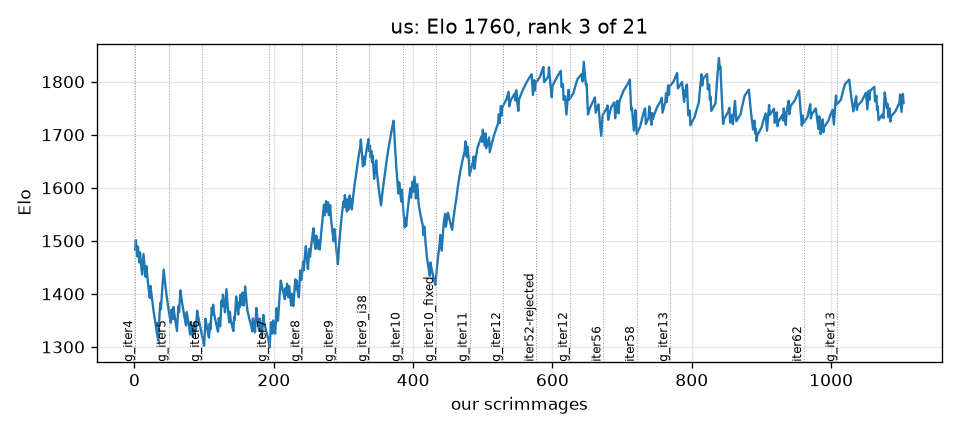
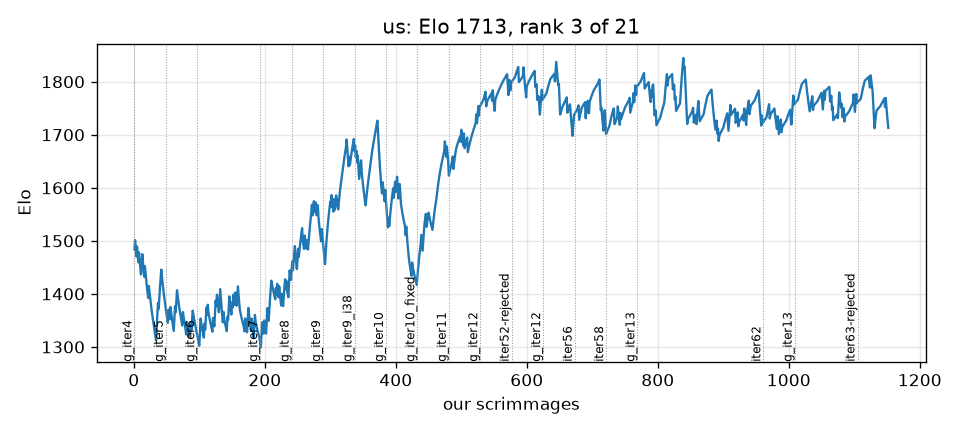
Iteration 63 rejected at the block (strong bots 2/12): src/bot back to g_iter13; candidate work closed
Claude-Session: https://claude.ai/code/session_01VgeNHsn9ncLsLui8RaK6L7

diff --git a/src/bot/C.java b/src/bot/C.java
@@ -62,13 +62,9 @@ public final class C {
     // game, while the strong opponents field 22 muckrakers at r100 and 48 at r200. In losses we see
     // less than half the map they do at r200 (145 tiles to 338) and hold one centre to their four.
     // Muckrakers cost 1 influence, so the price of this is the build action, not the economy.
-    // Iteration 63 (a re-test, METHOD 6): on 144 games of g_iter13 the earliest r200 correlates of a win are the
-    // coverage lead (+0.49 within pairs; losses trail by 107 tiles) and the muckraker-count lead (+0.47; -20).
-    // Iteration 38 doubled the scouts in the g_iter6 era and got 51.7%; the bot has changed under it since
-    // (swarm-priced guards, working knowledge). Dose: base 8 -> 16, one more scout every 20 rounds, cap 60.
-    public static final int SCOUT_BASE = 16;            // Iteration 63 (dose 1 was 8; the original 3)
-    public static final int SCOUT_PER_ROUND = 20;       // plus round/this (was 40; the original 300)
-    public static final int SCOUT_MAX = 60;             // absolute ceiling (was 40)
+    public static final int SCOUT_BASE = 8;             // dose 1 (was 3)
+    public static final int SCOUT_PER_ROUND = 40;       // plus round/this (was round/300)
+    public static final int SCOUT_MAX = 40;             // absolute ceiling
     // Iteration 37: the cap on capture politicians in flight. Pinned at 2 from r150 to r300 while five
     // real centres were known and 2,905-14,145 influence sat banked -- ten capturers' worth. The 2 -> 4
     // test was rejected 120-120 before, but that ran with the guard sink (no money) and the stale neutral

diff --git a/BENCHMARK.md b/BENCHMARK.md
@@ -86,7 +86,7 @@ above the 20% line, so every bot we have played may be reviewed.
 | `123kevinlee.atomAlphaV14` | 123kevinlee_Battlecode2021-TeamAtom (d121441) | - | - | untested |  |
 | `123kevinlee.atomFinal` | 123kevinlee_Battlecode2021-TeamAtom (d121441) | - | - | untested |  |
 | `123kevinlee.atomFinalHS` | 123kevinlee_Battlecode2021-TeamAtom (d121441) | - | - | untested |  |
-| `123kevinlee.atomFinalQualifier` | 123kevinlee_Battlecode2021-TeamAtom (d121441) | 100 | 6 | solved | 0 29 29 47 17 42 33 83 100 83 100 100 100 83 100 100 |
+| `123kevinlee.atomFinalQualifier` | 123kevinlee_Battlecode2021-TeamAtom (d121441) | 100 | 6 | solved | 0 29 29 47 17 42 33 83 100 83 100 100 100 83 100 100 100 |
 | `123kevinlee.atomFinalV22` | 123kevinlee_Battlecode2021-TeamAtom (d121441) | - | - | untested |  |
 | `123kevinlee.atomStorm` | 123kevinlee_Battlecode2021-TeamAtom (d121441) | - | - | untested |  |
 | `123kevinlee.atomV11` | 123kevinlee_Battlecode2021-TeamAtom (d121441) | - | - | untested |  |
@@ -171,7 +171,7 @@ above the 20% line, so every bot we have played may be reviewed.
 | `OliverMKing.oliverrushbot2` | OliverMKing_battlecode-2021 (14e4015) | - | - | untested |  |
 | `OliverMKing.templatebot` | OliverMKing_battlecode-2021 (14e4015) | - | - | untested |  |
 | `SLaGrave.AlphaCentauri` | SLaGrave_battlecode21 (9ae0ff4) | 100 | 6 | peer(>90 once) | 100 |
-| `Scott-Poole.spright8` | Scott-Poole_battlecode21 (57f898a) | 83 | 6 | peer | 7 12 39 17 25 50 33 33 50 67 67 83 92 83 83 100 75 83 |
+| `Scott-Poole.spright8` | Scott-Poole_battlecode21 (57f898a) | 100 | 6 | peer(>90 once) | 7 12 39 17 25 50 33 33 50 67 67 83 92 83 83 100 75 83 100 |
 | `Sihal3.cavShieldv05` | Sihal3_cavshield (7a90425) | - | - | untested |  |
 | `Sihal3.cavShieldv1` | Sihal3_cavshield (7a90425) | - | - | untested |  |
 | `Sihal3.cavShieldv2` | Sihal3_cavshield (7a90425) | - | - | untested |  |
@@ -246,7 +246,7 @@ above the 20% line, so every bot we have played may be reviewed.
 | `angelaloh09.camelmanplayer_old` | angelaloh09_BattleCode2021-CamelMan (1a1ad19) | - | - | untested |  |
 | `anshgs.ho4` | anshgs_Fandead (00ef0fd) | 17 | 6 | locked | 7 14 17 |
 | `arya-k.quals` | arya-k_bc21 (7791795) | - | - | untested |  |
-| `arya-k.quals_v1` | arya-k_bc21 (7791795) | 100 | 6 | solved | 50 42 39 67 42 67 83 83 100 100 100 83 83 100 100 |
+| `arya-k.quals_v1` | arya-k_bc21 (7791795) | 100 | 6 | solved | 50 42 39 67 42 67 83 83 100 100 100 83 83 100 100 100 |
 | `arya-k.refactor` | arya-k_bc21 (7791795) | - | - | untested |  |
 | `arya-k.seeding` | arya-k_bc21 (7791795) | - | - | untested |  |
 | `arya-k.seeding_bad_econ` | arya-k_bc21 (7791795) | - | - | untested |  |
@@ -291,7 +291,7 @@ above the 20% line, so every bot we have played may be reviewed.
 | `awesomelemonade.pdefense2` | awesomelemonade_battlecode-2021 (e9c4afc) | - | - | untested |  |
 | `awesomelemonade.ppbot` | awesomelemonade_battlecode-2021 (e9c4afc) | - | - | untested |  |
 | `awesomelemonade.spreadout` | awesomelemonade_battlecode-2021 (e9c4afc) | - | - | untested |  |
-| `awesomelemonade.sprint1bot` | awesomelemonade_battlecode-2021 (e9c4afc) | 17 | 6 | locked | 0 25 0 0 0 17 33 0 0 0 33 33 33 50 33 31 17 |
+| `awesomelemonade.sprint1bot` | awesomelemonade_battlecode-2021 (e9c4afc) | 17 | 6 | locked | 0 25 0 0 0 17 33 0 0 0 33 33 33 50 33 31 17 17 |
 | `awesomelemonade.trollbigps` | awesomelemonade_battlecode-2021 (e9c4afc) | - | - | untested |  |
 | `awesomelemonade.v1_10` | awesomelemonade_battlecode-2021 (e9c4afc) | - | - | untested |  |
 | `awesomelemonade.waves` | awesomelemonade_battlecode-2021 (e9c4afc) | - | - | untested |  |
@@ -320,7 +320,7 @@ above the 20% line, so every bot we have played may be reviewed.
 | `evan-schott.bugplayer` | evan-schott_battlecode2021 (1d7b865) | 100 | 6 | peer(>90 once) | 100 |
 | `evan-schott.nullplayer` | evan-schott_battlecode2021 (1d7b865) | - | - | untested |  |
 | `evan-schott.simpleplayer` | evan-schott_battlecode2021 (1d7b865) | - | - | untested |  |
-| `iliao2345.attacker` | iliao2345_Battlecode2021 (d620569) | 67 | 6 | peer | 21 31 37 17 42 50 83 100 67 83 100 100 100 64 67 |
+| `iliao2345.attacker` | iliao2345_Battlecode2021 (d620569) | 50 | 6 | peer | 21 31 37 17 42 50 83 100 67 83 100 100 100 64 67 50 |
 | `iliao2345.buryguard` | iliao2345_Battlecode2021 (d620569) | - | - | untested |  |
 | `iliao2345.donothing` | iliao2345_Battlecode2021 (d620569) | - | - | untested |  |
 | `iliao2345.explore_test` | iliao2345_Battlecode2021 (d620569) | - | - | untested |  |
@@ -388,7 +388,7 @@ above the 20% line, so every bot we have played may be reviewed.
 | `jmerle.camel_case_v4` | jmerle_battlecode-2021 (5f4a269) | - | - | untested |  |
 | `jmerle.camel_case_v5` | jmerle_battlecode-2021 (5f4a269) | - | - | untested |  |
 | `jmerle.camel_case_v6_sprint_1` | jmerle_battlecode-2021 (5f4a269) | - | - | untested |  |
-| `jmerle.camel_case_v7_sprint_2` | jmerle_battlecode-2021 (5f4a269) | 100 | 6 | solved | 14 38 45 17 42 17 67 50 100 100 100 100 100 100 100 100 100 |
+| `jmerle.camel_case_v7_sprint_2` | jmerle_battlecode-2021 (5f4a269) | 100 | 6 | solved | 14 38 45 17 42 17 67 50 100 100 100 100 100 100 100 100 100 100 |
 | `mama4294.Maloneplayer` | mama4294_Battlecode21 (583166a) | 100 | 6 | peer(>90 once) | 100 |
 | `max-titov.ECtest` | max-titov_2021.battlecode-KFA (168559c) | - | - | untested |  |
 | `max-titov.commsplayer` | max-titov_2021.battlecode-KFA (168559c) | - | - | untested |  |
@@ -396,7 +396,7 @@ above the 20% line, so every bot we have played may be reviewed.
 | `max-titov.navtest` | max-titov_2021.battlecode-KFA (168559c) | - | - | untested |  |
 | `max-titov.navtest2` | max-titov_2021.battlecode-KFA (168559c) | - | - | untested |  |
 | `max-titov.playertemplate` | max-titov_2021.battlecode-KFA (168559c) | - | - | untested |  |
-| `max-titov.sprintplayer` | max-titov_2021.battlecode-KFA (168559c) | 100 | 6 | solved | 25 33 45 67 25 67 67 100 100 92 67 67 83 97 100 |
+| `max-titov.sprintplayer` | max-titov_2021.battlecode-KFA (168559c) | 100 | 6 | solved | 25 33 45 67 25 67 67 100 100 92 67 67 83 97 100 100 |
 | `max-titov.voting_test` | max-titov_2021.battlecode-KFA (168559c) | - | - | untested |  |
 | `mhahn2003.bug` | mhahn2003_bc21 (175fd93) | - | - | untested |  |
 | `mhahn2003.coms` | mhahn2003_bc21 (175fd93) | - | - | untested |  |
@@ -518,7 +518,7 @@ above the 20% line, so every bot we have played may be reviewed.
 | `rzhan11.muckspam` | rzhan11_Battlecode2021 (f21c274) | - | - | untested |  |
 | `rzhan11.newday` | rzhan11_Battlecode2021 (f21c274) | - | - | untested |  |
 | `rzhan11.sprint` | rzhan11_Battlecode2021 (f21c274) | - | - | untested |  |
-| `rzhan11.sprint2` | rzhan11_Battlecode2021 (f21c274) | 50 | 6 | peer | 0 11 0 8 33 17 33 33 0 33 67 42 50 33 67 50 50 |
+| `rzhan11.sprint2` | rzhan11_Battlecode2021 (f21c274) | 17 | 6 | locked | 0 11 0 8 33 17 33 33 0 33 67 42 50 33 67 50 50 17 |
 | `rzhan11.template` | rzhan11_Battlecode2021 (f21c274) | - | - | untested |  |
 | `rzhan11.wander_defense` | rzhan11_Battlecode2021 (f21c274) | - | - | untested |  |
 | `saivivekvenna.Ba_ba_booie` | saivivekvenna_BattleCode-2021 (636ec61) | 100 | 6 | peer(>90 once) | 100 |

diff --git a/progress/ELO.md b/progress/ELO.md
@@ -1,19 +1,19 @@
 # Elo ladder
 
-1104 scrimmages (ours only); K=32 from 1500; our team is **us**: rank 3 of 21 rated bots, Elo 1760, 1104 games; 45 bots not yet met.
+1152 scrimmages (ours only); K=32 from 1500; our team is **us**: rank 3 of 21 rated bots, Elo 1713, 1152 games; 45 bots not yet met.
 
 | rank | bot | Elo | games | W-L (theirs) |
 |---|---|---|---|---|
-| 1 | awesomelemonade.sprint1bot | 1936 | 138 | 109-29 |
-| 2 | rzhan11.sprint2 | 1765 | 138 | 89-49 |
-| 3 | **us** | 1760 | 1104 | 696-408 |
+| 1 | awesomelemonade.sprint1bot | 1962 | 144 | 114-30 |
+| 2 | rzhan11.sprint2 | 1821 | 144 | 94-50 |
+| 3 | **us** | 1713 | 1152 | 731-421 |
 | 4 | rqi3.qualification_bot | 1641 | 12 | 11-1 |
-| 5 | BSreenivas0713.musketeerplayerfinal | 1569 | 6 | 5-1 |
-| 6 | iyzg.sbot17 | 1561 | 6 | 5-1 |
-| 7 | iliao2345.attacker | 1556 | 120 | 41-79 |
+| 5 | iliao2345.attacker | 1593 | 126 | 44-82 |
+| 6 | BSreenivas0713.musketeerplayerfinal | 1569 | 6 | 5-1 |
+| 7 | iyzg.sbot17 | 1561 | 6 | 5-1 |
 | 8 | VittalT.final_usqualplayer3_subm | 1552 | 6 | 4-2 |
 | 9 | StoneT2000.sprinttuna | 1531 | 6 | 3-3 |
-| 10 | Scott-Poole.spright8 | 1529 | 138 | 50-88 |
+| 10 | Scott-Poole.spright8 | 1495 | 144 | 50-94 |
 | 11 | naalit.mukrush | 1458 | 6 | 0-6 |
 | 12 | unai-gurbindo.camelmanplayer | 1451 | 6 | 0-6 |
 | 13 | raytran.dlmoreram010921 | 1448 | 6 | 0-6 |
@@ -21,9 +21,9 @@
 | 15 | qawsedrftgzh.battlecode2021 | 1435 | 6 | 0-6 |
 | 16 | ChiragKalra.gen5 | 1429 | 6 | 0-6 |
 | 17 | astelmach20.piedPiper | 1422 | 6 | 0-6 |
-| 18 | max-titov.sprintplayer | 1324 | 120 | 23-97 |
-| 19 | arya-k.quals_v1 | 1245 | 120 | 19-101 |
-| 20 | 123kevinlee.atomFinalQualifier | 1228 | 120 | 23-97 |
-| 21 | jmerle.camel_case_v7_sprint_2 | 1222 | 132 | 26-106 |
+| 18 | max-titov.sprintplayer | 1310 | 126 | 23-103 |
+| 19 | arya-k.quals_v1 | 1238 | 126 | 19-107 |
+| 20 | 123kevinlee.atomFinalQualifier | 1220 | 126 | 23-103 |
+| 21 | jmerle.camel_case_v7_sprint_2 | 1214 | 138 | 26-112 |
 
 Not yet met (1500 until their first game against us): Ahhorse1.WinstonPlayer, Aryan34.bot, Aryo-Patel.finalBot, BattlecodeTeam4.robotalpha, BoluAdubi.bot1, BryceKan3.bot.tournament.sprint, IvanGeffner.thirtyone, JCRaymond.bot.tournament.sprint, JasonYe4273.finals, Mahpare.hackatrainee_v1, OliverMKing.bot.tournament.sprint, SLaGrave.AlphaCentauri, Sihal3.cavShieldv705, TeamSerpentine.mars, Techno-coder.muckrakers, TylerQube.sandmenplayer, Victoriano012.SprintBot2, abhishekshree.bot2, aidan-mundy.final_usqualplayer3_subm, alextheimer.player, ama29.v6, angelaloh09.camelmanplayer, anshgs.ho4, davidfang00.Rushbot3, diegorod9000.Newcomer, dominicmkennedy.playerj3, edlwang.sprint2, ehiggins98.initialbot, evan-schott.bugplayer, jay20162016.ecobot, mama4294.Maloneplayer, mhahn2003.finals, mhbtz1.presprint, mvpatel2000.biden, nickel-dime.piedPiper, nsortur.piedPiper, paulmure.sprintplayer, pranayagra.finalbot11, ryanbai1412.sprint_0, saivivekvenna.Ba_ba_booie, sasank02.framework3_mr_density, thevaliantthird.bot1, winkelmantanner.tannerplayer, woodstockcs.fanandflag, wstan2001.boundfinder

diff --git a/HANDOFF.md b/HANDOFF.md
@@ -1,4 +1,4 @@
-# Handoff -- the state of the loop (updated 2026-09-23 08:05 UTC)
+# Handoff -- the state of the loop (updated 2026-09-23 09:05 UTC)
 
 Read `CLAUDE.md`, then `METHOD.md` (how this project measures things, portable
 across years), then this file, then the tail of `TRAINING_LOG.md`.
@@ -77,9 +77,9 @@ across years), then this file, then the tail of `TRAINING_LOG.md`.
 - Iteration 62 (camping scouts patrol the enemy ring) **rejected**: SPRT 20-28, ladder strong
   bots 4/12. Iteration 61 (attack on) null. Branches `iter61`, `iter62` keep the code. `src/bot`
   = g_iter13 + archetype scaffolding. **The VM is idle.**
-- **In flight: Iteration 63** (`src/bot` = g_iter13 + scout caps doubled, TRAINING_LOG 2026-09-23
-  08:05): ladder `gauntlet/ladder-i63.log`, SPRT `gauntlet/sprt-i63.log` vs g_iter13. Accept only
-  on SPRT ACCEPT plus a block not worse than 37/48 with strong bots >= 5/12; else revert.
+- Iteration 63 (scout caps doubled) **rejected at the block**: 35/48, strong bots 2/12; SPRT
+  15-17 stopped. `iter63` keeps the code. `src/bot` = g_iter13 + archetype scaffolding. **The
+  VM is idle; candidate work is closed.**
 - **Submission: `g_iter13`** = g_iter12 + cheap guards under a swarm (`GUARD_MUCK_COST=15`,
   `SWARM_MUCKS=3`, `SWARM_MEMORY=50`; Iteration 58). Accepted under METHOD 5b: two ladder blocks
   78/96 with **rzhan11 9/12** (g_iter12: 77/96, rzhan11 5/12) and a neutral mirror (final **119-121 over 240**, `gauntlet/sprt-i58-final.log`). `src/bot` = `g_iter13` plus archetype-only

diff --git a/TRAINING_LOG.md b/TRAINING_LOG.md
@@ -5944,3 +5944,15 @@ and SPRT vs `g_iter13` together (`gauntlet/ladder-i63.log`, `gauntlet/sprt-i63.l
 accepted only if the SPRT ACCEPTs **and** the block is not worse than 37/48 with the strong bots
 at 5/12 or better; otherwise revert to `src/g_iter13`. The 13:00 UTC shutdown applies the rule
 to whatever has finished.
+
+## Iteration 63 REJECTED at the block: 35/48, strong bots 2/12; SPRT 15-17 (2026-09-23 09:05 UTC)
+
+awesomelemonade 1/6, rzhan11 1/6, iliao2345 3/6, the five others 6/6. The mirror seed's 7-to-1
+win was real and the swarm bots took it apart exactly as the two partners did on their seeds: under
+a swarm the extra scout slots are never built -- the guards take them -- and what is built dies.
+Stopped and voided; `src/bot` back to g_iter13 (+ scaffolding); `iter63` keeps the code. The
+onset table's coverage/muckraker lead is a *marker* of games we win, not a lever we can pull with
+scouts alone (Iteration 38 said the same at 51.7%). Recorded as `iter63-rejected`: 1152 scrimmages (ours only); K=32 from 1500; our team is **us**: rank 3 of 21 rated bots, Elo 1713, 1152 games
+
+**Candidate work ends.** Eleven arms since g_iter12; one accept (g_iter13). The partners
+`arch_hunt` and `arch_lemon` are the instruments for the next competitor.

diff --git a/PROMPTS.md b/PROMPTS.md
@@ -504,3 +504,9 @@ Following up on earlier conversations, I'd like you to focus your enhanced intel
 > task check.  If the VM is idle and you're not working on anything, come up with a new idea.  Otherwise, continue as you are
 
 > task check.  If the VM is idle and you're not working on anything, come up with a new idea.  Otherwise, continue as you are
+
+> task check.  If the VM is idle and you're not working on anything, come up with a new idea.  Otherwise, continue as you are
+
+> task check.  If the VM is idle and you're not working on anything, come up with a new idea.  Otherwise, continue as you are
+
+> task check.  If the VM is idle and you're not working on anything, come up with a new idea.  Otherwise, continue as you are
